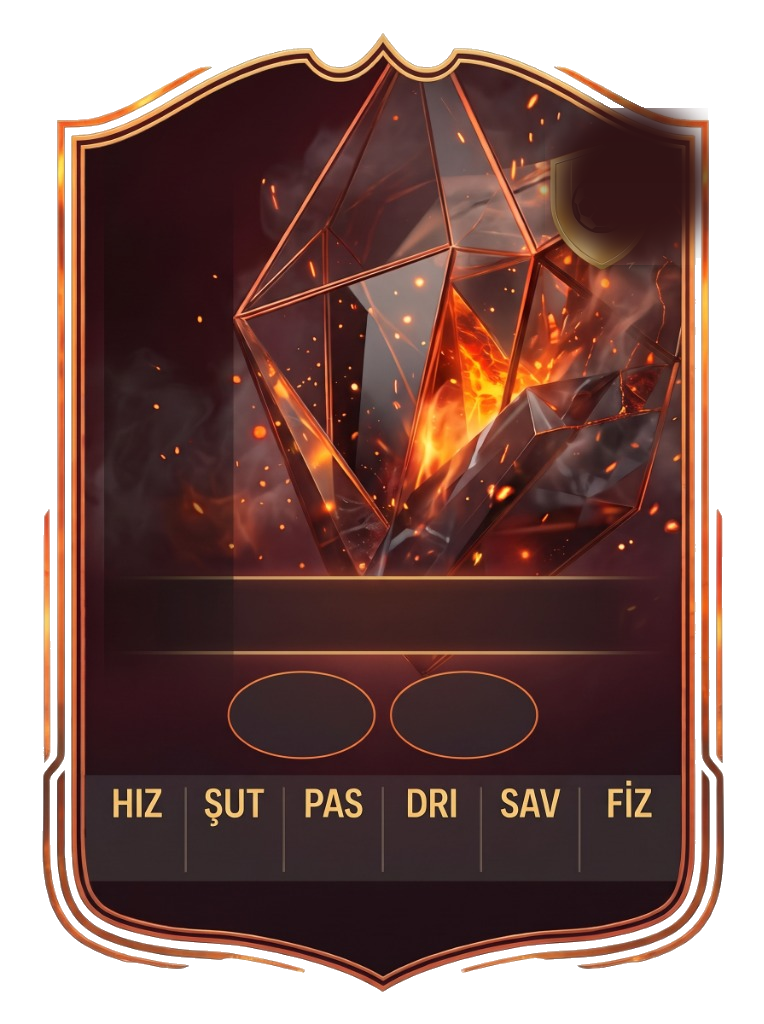
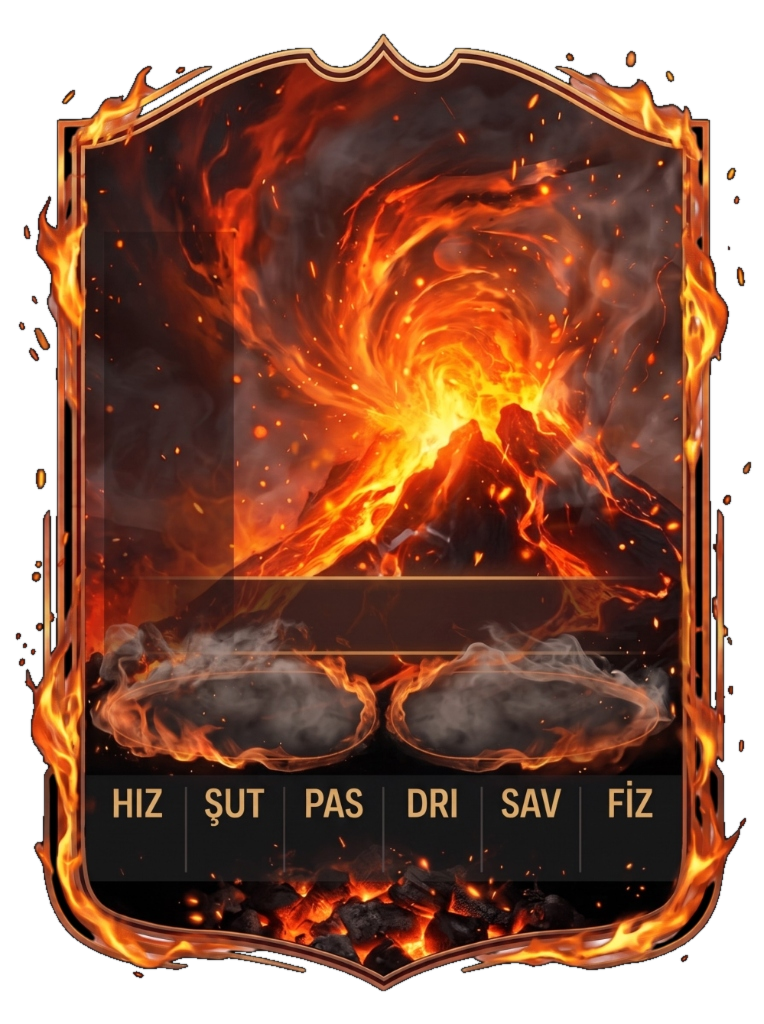
feat: update IN-FORM (Alev) card template and 3D volcanic stone crest with clean transparency

diff --git a/src/components/card/FCCard.tsx b/src/components/card/FCCard.tsx
@@ -123,8 +123,8 @@ export const FCCard: React.FC<Props> = ({
           statValColor: 'text-[#FED7AA]',
           ovalTextColor: 'text-orange-200',
           ovalIconColor: 'text-orange-400',
-          nameTop: 'top-[52.0%]',
-          statTop: 'top-[82.2%]',
+          nameTop: 'top-[53.8%]',
+          statTop: 'top-[82.4%]',
           statBounds: 'left-[11.3%] right-[11.3%]',
           ovalsTop: 'top-[65.2%]',
           ovalsBounds: 'left-[10.5%] right-[10.5%]',
